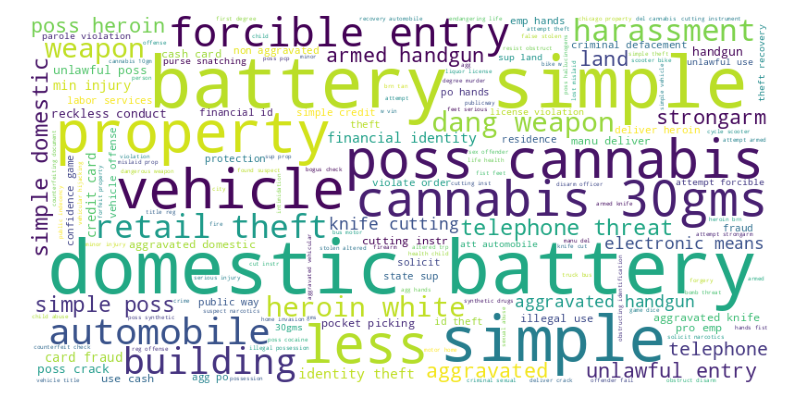
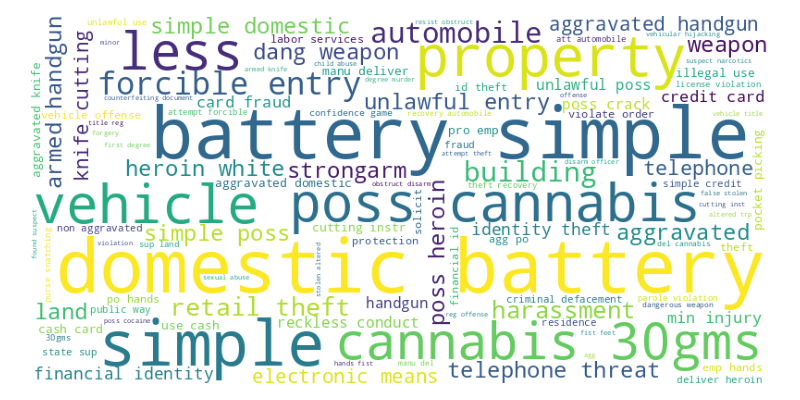
Practica 9

diff --git a/README.md b/README.md
@@ -63,10 +63,3 @@ Este repositorio contendrá las  prácticas de la materia de **Minería de Datos
 - [Script practica 8](https://github.com/IdAle3/MineriaDeDatos2025/blob/main/Practica8/practica8.py)  
 
 - [Carpeta con imagenes de las gráficas](https://github.com/IdAle3/MineriaDeDatos2025/tree/main/Practica8/img)  
-
-## Práctica 9
-
-
-- [Script practica 9](https://github.com/IdAle3/MineriaDeDatos2025/blob/main/Practica9/practica9.py)  
-
-- [Carpeta con la imagen del worldcloud](https://github.com/IdAle3/MineriaDeDatos2025/tree/main/Practica9/img)  
